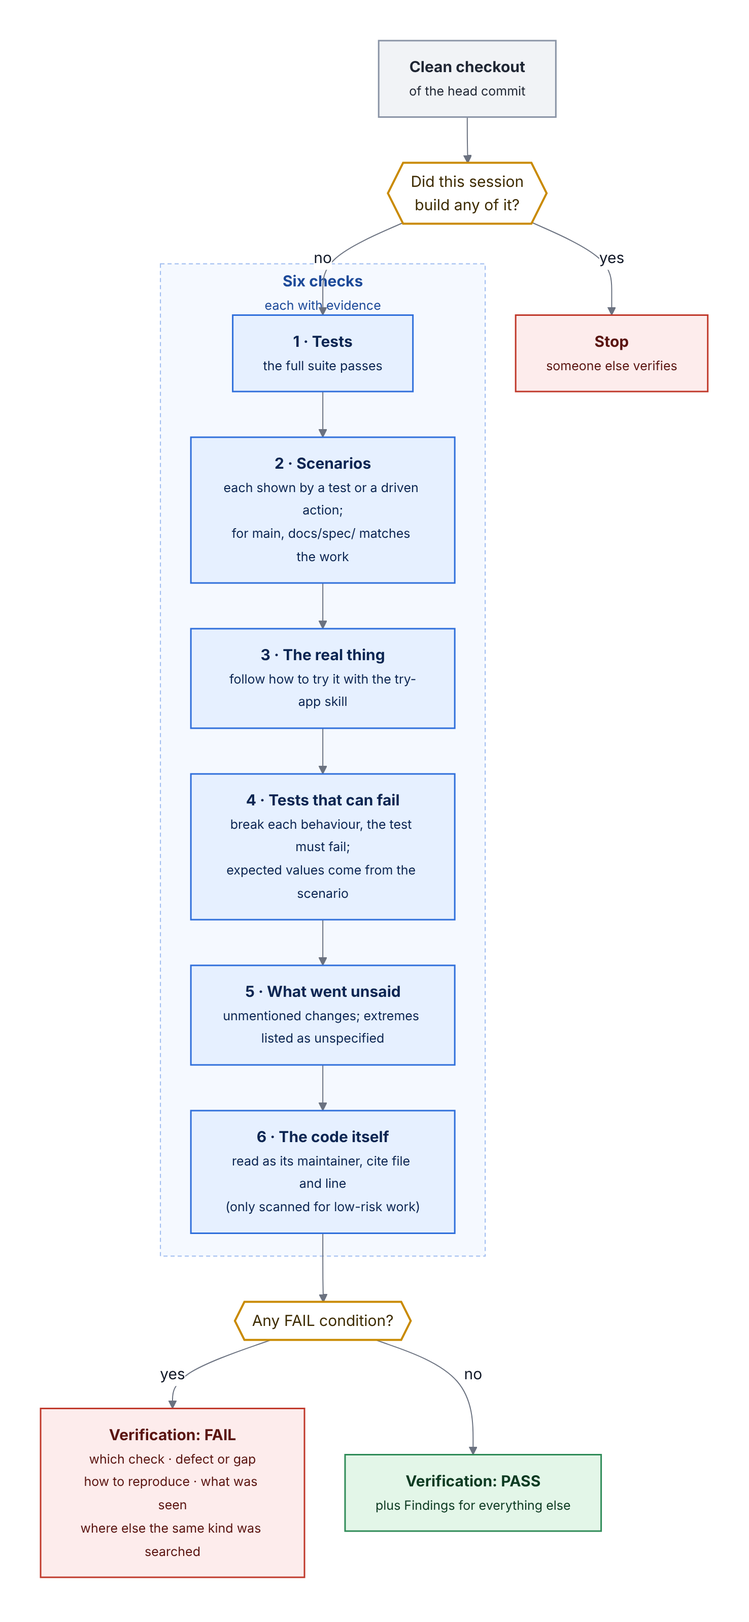
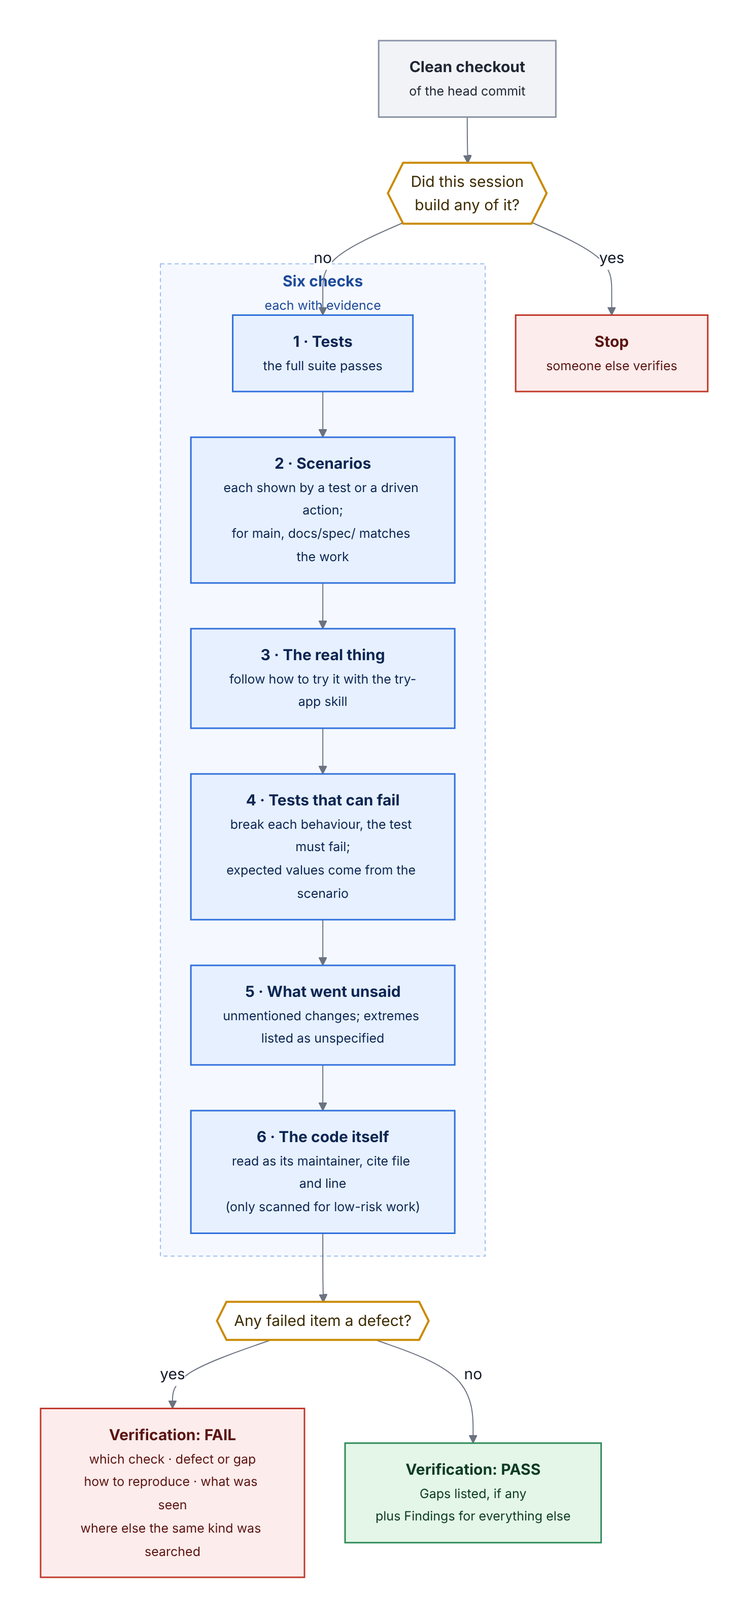
Release v0.5.2

Changed region(s): [[0.4675, 0.8679, 0.8103, 0.9609], [0.4675, 0.8059, 0.561, 0.8369], [0.3117, 0.8059, 0.4051, 0.8369]]

diff --git a/plugin/skills/shilaycow-setup/hooks/shilaycow-guard.py b/plugin/skills/shilaycow-setup/hooks/shilaycow-guard.py
@@ -19,7 +19,12 @@ in Claude Code before each Bash command and each GitHub tool call, and blocks:
   - a push to a shared branch (task/ or work/) that is not a compare-and-swap: it must carry
     --force-with-lease=<branch>:<the commit fetched> (empty when creating the branch), and a push to
     task/ must also be a fast-forward of that commit. Two sessions writing the same branch then cannot
-    lose each other's commits: the second push is refused, and the fix is to fetch, merge and push again.
+    lose each other's commits: the second push is refused, and the fix is to fetch, merge and push again;
+  - any other write to a shared branch (a GitHub tool's file write, branch creation or branch update, or
+    the API's contents and refs), since none of those can carry a lease: git push is the one way in.
+
+It reads the commands an agent writes, not every way a program could reach git: an alias, a script or
+xargs that runs git is not followed. It is a guard against mistakes, not against an agent set on evasion.
 
 Blocking exits 2 with the reason on stderr, which Claude Code shows the agent. It fails closed: input
 it cannot read is blocked too, since a lock that opens when confused is not a lock. A Bash command it
@@ -236,6 +241,12 @@ def check_api(words, protected):
         branch = re.search(r"branch=([^\s&]+)", joined)
         if branch is None or branch.group(1) in protected:
             return "writing a file to the default branch through the API (no branch, or the default branch)"
+        if branch.group(1).startswith(SHARED):
+            return f"{CAS} {branch.group(1)}: write it with a commit and git push, which the hook checks"
+    shared_ref = re.search(r"/git/refs/heads/((?:task|work)/[^?\s]+)", path) or re.search(
+        r"refs/heads/((?:task|work)/\S+)", joined) if re.search(r"/git/refs\b", path) else None
+    if shared_ref:
+        return f"{CAS} {shared_ref.group(1)}: move it with git push, which the hook checks"
     return None
 
 
@@ -287,9 +298,16 @@ def check_bash(command, protected, branch=...):
 def check_github_tool(tool, tool_input, protected):
     if re.search(r"merge_pull_request|enable_pr_auto_merge", tool):
         return OWNER_ONLY
+    branch = str(tool_input.get("branch", ""))
     if re.search(r"push_files|create_or_update_file|delete_file", tool):
-        if str(tool_input.get("branch", "")) in protected:
+        if branch in protected:
             return "writing to the default branch through the GitHub tools"
+        if branch.startswith(SHARED):
+            return f"{CAS} {branch}: write it with a commit and git push, which the hook checks"
+    if re.search(r"create_branch", tool) and branch.startswith(SHARED):
+        return f"{CAS} {branch}: create it with git push --force-with-lease={branch}: so only one session can"
+    if re.search(r"update_pull_request_branch", tool):
+        return f"{CAS} pull request branch: update it with git fetch, git merge and a leased git push"
     return None
 
 

diff --git a/ARCHITECTURE.md b/ARCHITECTURE.md
@@ -49,7 +49,7 @@ Every action with a large blast radius (irreversible, external, or costly) gets 
 | Action | Why it is dangerous | Guard | Strength |
 |---|---|---|---|
 | Changing `main` | the one thing you cannot throw away | Ruleset: pull request required, one approval, no force push, no deletion. The bot opens the pull request, and GitHub does not let an author approve their own. The hook also stops a push to `main` or a merge in a session acting as you | Server side, and a hook |
-| Merging a head nobody judged | a push after the verdict would reach you unchecked | the workflow `shilaycow-verdict` posts the status `shilaycow/verdict` on the head: green only when the newest verdict naming that exact commit is a PASS. The ruleset requires it from GitHub Actions, so a status the bot posts does not count, and the hook blocks posting one | Server side |
+| Merging a head nobody judged | a push after the verdict, or a branch updated from `main`, would reach you unchecked | the workflow `shilaycow-verdict` posts the status `shilaycow/verdict` on the head of every pull request into `main`: green only when the newest verdict by the bot naming that exact commit is a PASS, so a pull request another account opened is red too. The ruleset requires it from GitHub Actions, with branches up to date, so the commit merged is the commit judged; a status the bot posts does not count, and the hook blocks posting one | Server side |
 | Changing settings, rulesets or collaborators | would remove the guard above | the bot has the Write role, not Admin | Server side |
 | Changing CI workflows | could disable required checks | a workflow changed on a branch runs only once you merge it: the verdict check runs the copy on `main`, never a pull request's, and the change is in the diff you read | Server side |
 | Reading or leaking secrets | cannot be taken back | the cloud environment holds no secrets | Configuration |
@@ -130,7 +130,7 @@ Two exits apply from **any** unattended state, so they are not drawn as arrows:
 | Building | tickets are being built, proven and merged into the task branch | `work/<slug>/T-nn` pull requests |
 | Finishing | `docs/spec/` is brought up to date, the final report is written | `docs/spec/`, `reports/final.md` |
 | Judging | an independent session is checking the exact head commit | verdict comment on the pull request, and the status `shilaycow/verdict` on that commit |
-| Fixing | one fix round fixes the whole class a FAIL names; at most `fix_rounds` (default 2) while a defect remains; once only gaps remain, the pull request goes to you with them listed | a new head commit |
+| Fixing | one fix round fixes the whole class a FAIL names; at most `fix_rounds` (default 2) while a defect remains; once only gaps remain, the verdict is a PASS that lists them | a new head commit |
 | Wrapping | everything after the verdict goes on GitHub, so the judged commit stays the one you merge | comments on the pull request and tracking issue |
 | AwaitingOwner | a pull request you can read, try and merge | the pull request |
 
@@ -170,14 +170,14 @@ Task 0 has nothing to run, so its verification is different: instead of tests an
 
 `shilaycow-verify` runs in a session that built none of the work, on a clean checkout of one head commit. It treats the builder's claims as claims, not evidence.
 
-<p align="center"><img src="assets/diagrams/08-verification.png" width="738" alt="How a verdict is reached. On a clean checkout of the head commit, a session that built any of the work stops: someone else verifies. Otherwise it runs six checks, each with evidence: tests, scenarios, the real thing, tests that can fail, what went unsaid, and the code itself (only scanned for low-risk work). Any FAIL condition gives Verification: FAIL with which check, whether it is a defect or a gap, how to reproduce, what was seen and where else the same kind of mistake was searched for; otherwise Verification: PASS, with findings for everything else."></p>
+<p align="center"><img src="assets/diagrams/08-verification.png" width="738" alt="How a verdict is reached. On a clean checkout of the head commit, a session that built any of the work stops: someone else verifies. Otherwise it runs six checks, each with evidence: tests, scenarios, the real thing, tests that can fail, what went unsaid, and the code itself (only scanned for low-risk work). Any failed item that is a defect gives Verification: FAIL with which check, whether each item is a defect or a gap, how to reproduce, what was seen and where else the same kind of mistake was searched for; otherwise Verification: PASS, with the gaps listed, if any, and findings for everything else."></p>
 
 Rules that make the verdict trustworthy:
 
 - **Evidence is a command and its output, a screenshot, a file and line.** Never a sentence.
 - **One verdict per head commit.** A new commit needs a new verdict, and nothing is pushed after the verdict on the pull request you merge. This one is enforced: the required status `shilaycow/verdict` turns red on any head without a PASS, so GitHub refuses to merge it.
 - **A finding never turns a PASS into a FAIL, and is never left out to keep a PASS clean.**
-- **Every failed item is a defect or a gap.** A gap means users can already do what the scenario says and the verifier saw it work; only the proof or the documents around it fall short. At high risk every failed item is a defect. Gaps still fail the verdict, but they do not keep the run fixing: once only gaps remain, the pull request comes to you with them listed, each with an issue for a later task.
+- **Every failed item is a defect or a gap.** A gap means users can already do what the scenario says and the verifier saw it work; only the proof or the documents around it fall short. At high risk every failed item is a defect. Only a defect fails the verdict: when every failed item is a gap, the verdict is a PASS with a `### Gaps` list, `Finished:` says how many there are, and each gets an issue for a later task. A gap therefore never makes you override the required check to merge.
 - **A FAIL names the class, not one instance.** For each failed item the verifier says where else it searched for the same kind of mistake, so a fix round fixes all of it instead of the one place that was seen.
 - **A fix round is judged by what changed.** A new verifier is given the earlier verdict and checks the full suite, every check that failed, and the diff between the two heads; if that diff changes code the product runs, it does every check again. Merging `main` into the branch is judged the same way and is not counted as a fix round.
 - **No behaviour ships on a test that cannot fail.** This is the only rule in the method layer that is enforced.
@@ -223,7 +223,7 @@ The loop runs at the start of the next task, not at the end of this one, so that
   worktrees/<session>/  where builders work, a folder per session; ignored by git
 .claude/
   hooks/shilaycow-guard.py   the hook that stops a push to main, a merge, and any push to a task's branches that is not a compare-and-swap
-  settings.json         runs the hook before every command and GitHub tool call
+  settings.json         runs the hook before every Bash command and the GitHub tools that merge or write branches
   skills/try-<app>/     how to start and drive your app, made by shilaycow-try-it
 .github/workflows/
   shilaycow-verdict.yml posts the status the ruleset requires: PASS for this exact head, or red
@@ -297,7 +297,7 @@ Nothing important lives in a conversation. Conversations are compressed and sess
 
 Because of this, running `/shilaycow-autopilot` again on the same task resumes it, after the same gate: the Chief rebuilds its picture from the repository and GitHub every time.
 
-**Two runs at once lose nothing.** There is no lock that could be left held. Instead, every write that could lose work is one only a single writer can win: pushes to the task's branches are compare-and-swaps the hook enforces, two first starts race on the same push and the loser stops, a ticket is claimed by creating its branch, the tracking issue is the one the trail names, and GitHub allows one open pull request per branch. A second run only duplicates effort, such as a second verifier. `shilaycow-status` reads the same sources to tell you, without changing anything, what the task is waiting on and what to do next.
+**Two runs at once lose nothing.** There is no lock that could be left held. Instead, every write that could lose work is one only a single writer can win: pushes to the task's branches are compare-and-swaps the hook enforces, two first starts race on the same push and the loser stops, a ticket is claimed by creating its branch, the tracking issue is the one the trail names, and GitHub allows one open pull request per branch. A second run only duplicates effort, such as a second verifier. This holds for the writes the hook can read: git push is the one way to write a task's branches, and the hook refuses a GitHub tool or API call that would write them. It reads the commands an agent writes; a push hidden behind an alias or a script is not followed, since the hook guards against mistakes, not evasion. `shilaycow-status` reads the same sources to tell you, without changing anything, what the task is waiting on and what to do next.
 
 ---
 

diff --git a/plugin/skills/shilaycow-setup/SKILL.md b/plugin/skills/shilaycow-setup/SKILL.md
@@ -27,7 +27,7 @@ All of these hold, and you have shown the owner what you checked:
 3. The repository setting **Automatically delete head branches** is on, so a branch goes once its pull request is merged. Where your GitHub tools do not show the setting, the owner confirms it.
 4. `.shilaycow/config.yml` exists with `owner`, `bot`, `mode: auto`, `test_command` (empty while the project has no tests), `fix_rounds`.
 5. `CLAUDE.md`, which sessions read when they start, has the section in `claude-section.md` beside this file, copied as it is: the owner's standing permission to push branches, and where each piece of state lives. It names places, never one task's details, so it stays the same from task to task. An existing section is updated to match. Where the project keeps its rules in `AGENTS.md`, the section goes there and `CLAUDE.md` imports it with a line `@AGENTS.md`; `.gitignore` ignores `.shilaycow/worktrees/`, where builders work, and `__pycache__/`, which running the hook or a test leaves behind. Add the setup files to the commit by path, never all at once.
-6. `.github/workflows/shilaycow-verdict.yml` is a copy of `workflows/shilaycow-verdict.yml` beside this file. It posts the status `shilaycow/verdict` on the head of each pull request the bot opens into the default branch: green only when the newest verdict naming that exact commit is a PASS, so a push after the verdict turns it red again. Once it is on the default branch, the ruleset requires that status from GitHub Actions (`by-hand.md` step 2), and GitHub refuses to merge a head nobody judged. `.gitattributes` has the line `docs/tasks/*/trail.tsv merge=union`, so trail rows that two sessions append at once both survive a merge instead of conflicting. `.claude/hooks/shilaycow-guard.py` is a copy of `hooks/shilaycow-guard.py` beside this file, and `.claude/settings.json` runs it as the `PreToolUse` hooks in `hooks/settings.json`. It blocks a push to the default branch and a merge, whoever the session acts as: the second lock, for a session the ruleset would let through. Where `.claude/settings.json` exists, add the two entries to its `PreToolUse` list and keep everything else.
+6. `.github/workflows/shilaycow-verdict.yml` is a copy of `workflows/shilaycow-verdict.yml` beside this file. It posts the status `shilaycow/verdict` on the head of each pull request into the default branch, whoever opened it: green only when the newest verdict naming that exact commit is a PASS, so a push after the verdict turns it red again. Once it is on the default branch, the ruleset requires that status from GitHub Actions, with branches up to date (`by-hand.md` step 2), and GitHub refuses to merge a head nobody judged. `.gitattributes` has the line `docs/tasks/*/trail.tsv merge=union`, so trail rows that two sessions append at once both survive a merge instead of conflicting. `.claude/hooks/shilaycow-guard.py` is a copy of `hooks/shilaycow-guard.py` beside this file, and `.claude/settings.json` runs it as the `PreToolUse` hooks in `hooks/settings.json`. It blocks a push to the default branch and a merge, whoever the session acts as: the second lock, for a session the ruleset would let through. Where `.claude/settings.json` exists, add the two entries to its `PreToolUse` list and keep everything else.
 7. Items 4 to 6 are on a branch with a pull request open, not pushed to `main`; the labels `needs-owner` and `later` exist on the repository. Read each with your GitHub tools; where they cannot create a label, the owner creates it by hand (`by-hand.md`).
 8. The owner has a cloud environment whose setup script is `install-skills.sh` beside this file, and knows to start this project's sessions in it. A repository's own plugin settings are not loaded in cloud sessions.
 
@@ -42,7 +42,7 @@ Never test the boundary by trying to push to `main`.
 
 **As the owner.** Do items 1 to 3 with `gh api`, sending `ruleset.json` as the body, then items 4 to 7, the labels included. The owner still does what only a person can: accepting the invitation as the bot, and connecting GitHub on claude.ai to the bot account with the Claude GitHub App installed on this repository.
 
-Either way: say why at each step, and never overwrite a file that exists; add a section or report the difference. Once the project has a workflow that runs its test command on pull requests, the ruleset also requires that check to pass (`required_status_checks`, `by-hand.md` step 2), so a red suite cannot be merged whatever a verdict says; until then, passing tests rest on the verifier's run, and the setup check says so. Propose that workflow; the owner adds it, since it lives under `.github/`.
+Either way: say why at each step. Two files are the harness's own: `.claude/hooks/shilaycow-guard.py` and `.github/workflows/shilaycow-verdict.yml`. When either differs from this version's copy, replace it in the setup pull request, so an upgrade reaches them. Never overwrite any other file that exists; add a section or report the difference. Once the project has a workflow that runs its test command on pull requests, the ruleset also requires that check to pass (`required_status_checks`, `by-hand.md` step 2), so a red suite cannot be merged whatever a verdict says; until then, passing tests rest on the verifier's run, and the setup check says so. Propose that workflow; the owner adds it, since it lives under `.github/`.
 
 To check an existing setup, compare each item with what GitHub reports and list actual against expected. Change nothing. A config written by version 0.3 has `merge_unit` in place of `mode`, and often a `budget`: that is the upgrade the CHANGELOG describes, so in the setup pull request put `mode: auto` in place of `merge_unit` and remove `budget`.
 

diff --git a/plugin/skills/shilaycow-verify/references/verdict.md b/plugin/skills/shilaycow-verify/references/verdict.md
@@ -7,7 +7,7 @@ Read this when the checks are done, before you write the comment.
 It is a **FAIL** when any of these is true:
 
 - the suite fails, or a scenario this work serves is not shown;
-- for a pull request into `main`, the spec contradicts what the work does, or lacks a scenario the work added;
+- for a pull request into `main`, the spec contradicts what the work does, or lacks a scenario the work added (for a documents-only task, its scenarios belong under Not yet built: `references/checks.md`);
 - the "how to try it" steps do not work as written;
 - a test still passes with its behaviour broken, or takes its expected value from the code it tests;
 - a behaviour is reported as proven with neither a test nor a recorded driven check;
@@ -20,7 +20,7 @@ It is a **FAIL** when any of these is true:
 
 ## Defect or gap
 
-Mark each failed item **defect** or **gap**. Its risk is that of the ticket it belongs to. It is a gap only when users can already do what its scenario says, you saw it work, and what falls short is the proof or the documents around it: a test missing or unable to fail at low or medium risk, a report or repeated figure out of step, a spec that leaves something out. A spec whose Scenarios say something the work makes false is a defect: the next task starts from it. Anything else is a defect, and at high risk every failed item is a defect. Gaps still make the verdict a FAIL; they tell the Chief when to stop fixing.
+Mark each failed item **defect** or **gap**. Its risk is that of the ticket it belongs to. It is a gap only when users can already do what its scenario says, you saw it work, and what falls short is the proof or the documents around it: a test missing or unable to fail at low or medium risk, a report or repeated figure out of step, a spec that leaves something out. A spec whose Scenarios say something the work makes false is a defect: the next task starts from it. Anything else is a defect, and at high risk every failed item is a defect. The verdict is a **FAIL** only when at least one failed item is a defect. When every failed item is a gap, the verdict is a **PASS** and the comment lists them under a `### Gaps` heading: a gap is not fixed in this run, and a FAIL would only make the owner override the required check to merge.
 
 For each failed item, say which check failed (and which scenario, when one is involved), how to reproduce it and what you saw, so the builder need not guess, and where else you searched for the same kind of mistake and what you found there.
 
@@ -30,4 +30,4 @@ Otherwise it is a **PASS**. Anything else you found (a defect outside the scenar
 
 ## The comment
 
-One comment, in this order: the heading `## Verification: PASS` or `## Verification: FAIL`; a line `Session: <your session id>`; the full head commit; in a fix round, a link to the verdict before this one; your paraphrase; the checks with their evidence, failed items marked defect or gap; then `### Findings`. With no pull request yet, post it where you were told to, which is normally the tracking issue. Never edit it afterwards; a new head needs a new verdict.
+One comment, in this order: the heading `## Verification: PASS` or `## Verification: FAIL`; a line `Session: <your session id>`; the full head commit; in a fix round, a link to the verdict before this one; your paraphrase; the checks with their evidence, failed items marked defect or gap; then `### Gaps`, when any item is a gap; then `### Findings`. With no pull request yet, post it where you were told to, which is normally the tracking issue. Never edit it afterwards; a new head needs a new verdict.

diff --git a/CHANGELOG.md b/CHANGELOG.md
@@ -1,11 +1,25 @@
 # Changelog
 
+## 0.5.2
+
+Closes the gaps an audit found between what 0.5 promised and what it enforced.
+
+- **Every pull request into the default branch needs a verdict.** One opened by another account is red too, so a session connected as the wrong account is caught by GitHub, not only by the verifier. Merge your own pull requests as before, by bypassing the ruleset as admin.
+- **A gap no longer blocks the merge.** When every failed item is a gap, the verdict is a PASS with a `### Gaps` list, and `Finished:` says how many there are. Before, a gap-only FAIL turned the required check red and left you only the admin bypass. Only a defect fails a verdict now.
+- **The commit you merge is the commit that was judged.** `by-hand.md` step 2 now also has you tick **Require branches to be up to date before merging**: updating a branch from the default branch makes a new head, which is red until it is judged again.
+- **git push is the only way to write a task's branches.** The hook now refuses a GitHub tool or API call that writes, creates or updates a `task/` or `work/` branch, since none of those can carry the compare-and-swap that keeps two sessions from losing each other's work.
+- **Upgrades reach the hook and the workflow.** Setup replaces its own two files when they differ from the version it ships, in its pull request; it still never overwrites any other file.
+- A documents-only task no longer fails verification for having no built scenarios, and `/shilaycow-chief` opens nothing on GitHub when the session is not the bot, so a wrong account cannot leave a tracking issue every verdict would fail.
+- Builders post their `Ready.` comment with the GitHub tools or `--body-file`, which the hook never mistakes for a push.
+
+To upgrade, run `/shilaycow-setup` again: its pull request replaces the hook and the workflow. Then, in the ruleset, edit the `shilaycow/verdict` check and tick **Require branches to be up to date before merging**. Update the `--branch` tag in your cloud environment's setup script.
+
 ## 0.5.1
 
 Fixes from running 0.5.0 end to end on a real repository.
 
 - **Setup no longer commits Python's cache.** Its `.gitignore` also ignores `__pycache__/`, and it adds its files to the commit by path.
-- **Making the verdict check required works the first time.** GitHub lists a check only after it has run, so `by-hand.md` now has you open a one-line pull request first, wait for the red `shilaycow/verdict`, close it, and then add the check.
+- **Making the verdict check required works the first time.** GitHub lists a check only after it has run, so `by-hand.md` now has you ask a session to open a one-line pull request first, wait for the red `shilaycow/verdict`, close it, and then add the check.
 - **You can see that the verdict check ran again.** Its description now ends with why it was posted, such as "(checked after a comment)": a recheck after a comment runs against the default branch and does not appear among the pull request's checks, and with the same verdict the text used to look unchanged.
 - **The hook no longer blocks harmless commands it cannot parse.** A command with, say, an apostrophe inside a heredoc is blocked only if it could push, merge or call an API.
 

diff --git a/plugin/skills/shilaycow-autopilot/references/verdicts.md b/plugin/skills/shilaycow-autopilot/references/verdicts.md
@@ -8,7 +8,7 @@ Rely on a verdict only when the commit it names is the branch's head as it is no
 
 ## Findings and gaps
 
-On the pull request, one comment saying what becomes of each finding and each gap: left for the owner, or a `later` issue (labelled `later`, saying whether it is a gap or a finding, its area, and how to reproduce it). Gaps and findings are not fixed in this run: patched one at a time they scatter small fixes across the repository, while gathered they show their shared cause to a later task. Defects do not go in that comment: they go to a fix round.
+A verdict whose only failed items are gaps is a PASS with a `### Gaps` list. On the pull request, one comment saying what becomes of each finding and each gap: left for the owner, or a `later` issue (labelled `later`, saying whether it is a gap or a finding, its area, and how to reproduce it). Gaps and findings are not fixed in this run: patched one at a time they scatter small fixes across the repository, while gathered they show their shared cause to a later task. Defects do not go in that comment: they go to a fix round.
 
 ## A fix round
 
@@ -21,4 +21,4 @@ Then give a new verifier the new head and the verdict before it. A fix keeps its
 
 ## The limit
 
-`fix_rounds` (in the config; 2 if unset) limits each ticket judged on its own and, separately, the pull request into `main`: the first verdict is not a round, so with 2 there are at most three verdicts. A fix ticket made for the pull request into `main` belongs to that round: its own verdicts do not start a count of their own, and the round ends with the next verdict on the pull request. Keep the count for each on the goal list. A merge of `main` is not a round. When a defect is still there after that many rounds, stop: open a `needs-owner` issue with the failing item and your options. When only gaps are left on the pull request into `main`, stop: hand it to the owner with the gaps listed.
+`fix_rounds` (in the config; 2 if unset) limits each ticket judged on its own and, separately, the pull request into `main`: the first verdict is not a round, so with 2 there are at most three verdicts. A fix ticket made for the pull request into `main` belongs to that round: its own verdicts do not start a count of their own, and the round ends with the next verdict on the pull request. Keep the count for each on the goal list. A merge of `main` is not a round. When a defect is still there after that many rounds, stop: open a `needs-owner` issue with the failing item and your options. Gaps never start a round: once no defect is left, the verdict is a PASS and the gaps go to the owner with it.

diff --git a/plugin/skills/shilaycow-setup/by-hand.md b/plugin/skills/shilaycow-setup/by-hand.md
@@ -30,7 +30,7 @@ Leave everything else off, and **Create**.
 
 Why: after this, the only way into the default branch is a pull request. The bot opens it and cannot approve its own; the owner merges it. The owner can still merge their own pull requests without a second person.
 
-**Once the setup pull request is merged**, so the verdict workflow is on the default branch: GitHub lists a check here only after it has run once, so first have a session open a pull request into the default branch that changes one line, wait until it shows a red `shilaycow/verdict`, and close it without merging. Then edit the same ruleset, tick **Require status checks to pass**, add the check `shilaycow/verdict`, and set its source to **GitHub Actions**, so only the workflow can turn it green, not a status posted by an account. The setup pull request itself has no verdict: merge it before this step. From then on a task's pull request can be merged only at a head with a PASS; you can still bypass the rule as admin, deliberately, for a pull request you made yourself.
+**Once the setup pull request is merged**, so the verdict workflow is on the default branch: GitHub lists a check here only after it has run once, so first have a session open a pull request into the default branch that changes one line, wait until it shows a red `shilaycow/verdict`, and close it without merging. Then edit the same ruleset, tick **Require status checks to pass**, add the check `shilaycow/verdict`, set its source to **GitHub Actions**, so only the workflow can turn it green, not a status posted by an account, and tick **Require branches to be up to date before merging**, so the commit you merge is the commit that was judged: updating a branch from the default branch makes a new head, whose status is red until it is judged again. The setup pull request itself has no verdict: merge it before this step. From then on a task's pull request can be merged only at a head with a PASS; you can still bypass the rule as admin, deliberately, for a pull request you made yourself.
 
 **Later, once the project runs its tests in a workflow on pull requests:** edit the same ruleset, tick **Require status checks to pass**, and add that workflow's check. From then on a pull request whose tests fail cannot be merged, whatever a verdict says. Run `/shilaycow-setup` again afterwards; it reads the rules in force and confirms the check.
 

diff --git a/plugin/skills/shilaycow-autopilot/references/finishing.md b/plugin/skills/shilaycow-autopilot/references/finishing.md
@@ -22,6 +22,6 @@ The last verdict is a PASS, or the one after which you stopped. Then, on the tra
 
 - a `Retro:` comment with what `shilaycow-retro` found, unless the issue already has one from this run (a resume after a crash must not post a second);
 - the goal list in its final state (`references/starting.md`);
-- `Finished:`, which ends like the pull request, with the roadmap's next task and `/shilaycow-chief` or that the roadmap is done, and tells the owner two things: anything they find wrong after merging is worth one comment on this issue, closed or not, since it is how the next task learns what verification missed; and if they update the branch from `main` before merging, the new head was not judged, so they run `/shilaycow-autopilot` again for its verdict.
+- `Finished:`, whose first line says how many gaps the PASS lists (or none), and which ends like the pull request, with the roadmap's next task and `/shilaycow-chief` or that the roadmap is done, and tells the owner two things: anything they find wrong after merging is worth one comment on this issue, closed or not, since it is how the next task learns what verification missed; and if they update the branch from `main` before merging, the new head was not judged, so they run `/shilaycow-autopilot` again for its verdict.
 
 The next task's `/shilaycow-chief` folds the Retro into the pitfalls file and proposes the `shilaycow-correct` changes it makes due. Push nothing more to the task branch: the commit the owner merges is the commit that was judged. Apart from a fix round's ticket, which lands with its trail rows as usual, decisions you make after the pull request into `main` is sent for verification (restarting a verifier, for instance) go in a comment on the tracking issue starting `Decision:`, not in the trail, so recording them never moves the judged head; the report's next version folds them in. Then cancel your timed checks. Delete the `spike/` branches this task opened; their decisions are in the trail and the files it cites are already copied. Delete the `work/` branches of merged tickets too: GitHub's automatic deletion may not apply to a pull request merged by a push. Where your tools cannot delete a branch (a cloud session's git access may refuse it), list those branches in `Finished:` for the owner to delete.

diff --git a/plugin/skills/shilaycow-chief/SKILL.md b/plugin/skills/shilaycow-chief/SKILL.md
@@ -25,7 +25,7 @@ Read `mode` in the config.
 
 Typed with no request, the command asks what comes next: say where the roadmap stands (done, next, remaining) and propose its next task; with no roadmap, ask what the user wants built. A task that is still open comes first, as below.
 
-In auto mode, commit as the bot: before your first commit, set git's `user.name` to the bot's login and `user.email` to `<id>+<login>@users.noreply.github.com`, from `get_me`; if `get_me` names someone other than the config's `bot`, say so before writing anything. Create `task/<slug>` when the task begins, with `docs/tasks/<slug>/trail.tsv` and its header row (`shilaycow-trail`), and keep everything about the task in `docs/tasks/<slug>/` on that branch, the brief included, from the first file you write; record each decision in the trail as you make it, the ones before approval included, so nothing depends on this conversation surviving. Every task becomes one pull request into `main` from that branch; work too large for one pull request a person can review closely becomes a chain of tasks (`shilaycow-sharpen`).
+In auto mode, commit as the bot: before your first commit, set git's `user.name` to the bot's login and `user.email` to `<id>+<login>@users.noreply.github.com`, from `get_me`; if `get_me` names someone other than the config's `bot`, say so before writing anything, and open or comment on nothing on GitHub: the verifier fails a task whose tracking issue another account opened, and an issue's author cannot change. Ask the user to go on in a session that acts as the bot. Create `task/<slug>` when the task begins, with `docs/tasks/<slug>/trail.tsv` and its header row (`shilaycow-trail`), and keep everything about the task in `docs/tasks/<slug>/` on that branch, the brief included, from the first file you write; record each decision in the trail as you make it, the ones before approval included, so nothing depends on this conversation surviving. Every task becomes one pull request into `main` from that branch; work too large for one pull request a person can review closely becomes a chain of tasks (`shilaycow-sharpen`).
 
 Before the brief, bring in what earlier tasks left, so the user weighs it while approving:
 

diff --git a/README.md b/README.md
@@ -53,14 +53,14 @@ Paste this into the environment's **Setup script**. Its network must reach `gith
 
 ```bash
 rm -rf /tmp/shilaycow-src
-git -c advice.detachedHead=false clone -q --depth 1 --branch v0.5.1 https://github.com/pitaya943/shilaycow.git /tmp/shilaycow-src \
+git -c advice.detachedHead=false clone -q --depth 1 --branch v0.5.2 https://github.com/pitaya943/shilaycow.git /tmp/shilaycow-src \
   && mkdir -p "${HOME:-/root}/.claude/skills" \
   && rm -rf "${HOME:-/root}"/.claude/skills/shilaycow-* \
   && cp -r /tmp/shilaycow-src/plugin/skills/. "${HOME:-/root}/.claude/skills/" \
   || echo "shilaycow skills were not installed" >&2
 ```
 
-Every session started in that environment has the skills as `/shilaycow-chief`, `/shilaycow-sharpen`, and so on. Where this README names a command, a plugin install spells it `/shilaycow:shilaycow-…`. A plugin installed on your own computer is not available in cloud sessions, so use the script there. The script installs version 0.5.1 and removes the skills an earlier version left; to move to a later version, change the `--branch` tag. It does not stop the session from starting if the clone fails, so a session without the skills still opens and says the command is unknown.
+Every session started in that environment has the skills as `/shilaycow-chief`, `/shilaycow-sharpen`, and so on. Where this README names a command, a plugin install spells it `/shilaycow:shilaycow-…`. A plugin installed on your own computer is not available in cloud sessions, so use the script there. The script installs version 0.5.2 and removes the skills an earlier version left; to move to a later version, change the `--branch` tag. It does not stop the session from starting if the clone fails, so a session without the skills still opens and says the command is unknown.
 
 **Upgrading from 0.3.x:** version 0.4 is not compatible. Follow the steps in [CHANGELOG.md](CHANGELOG.md) before your next task.
 

diff --git a/plugin/skills/shilaycow-autopilot/roles/builder.md b/plugin/skills/shilaycow-autopilot/roles/builder.md
@@ -21,7 +21,7 @@ If any of these is missing, ask for it before starting. Check out your branch fi
 3. Build each behaviour and prove it the way the `shilaycow-prove` skill says. Every test you add must have been seen to fail. Do not run mutation sweeps: breaking every behaviour is the verifier's job. Commit only short evidence (the command, the commit, the result); put long output in a collapsed block of your `Ready.` comment.
 4. Note each decision another person might have made differently, as rows in the form the `shilaycow-trail` skill describes. Do not edit `trail.tsv` yourself.
 5. When the full suite passes, set the ticket's `Status:` to `done` if the ticket is its own file (a row of a shared table is left to autopilot), push your branch as a compare-and-swap (`git push --force-with-lease=<your branch>:<its commit on origin> origin <your branch>`, with that commit written out: the project's hook refuses any other push to it), and open a pull request into your base branch.
-6. Post one comment on the pull request that starts `Ready.` and contains: the `Session:` line you were given, for each scenario how it is proven (the test and how it was seen to fail, or the driven check and its record), how to try the change, and your trail rows in a fenced block.
+6. Post one comment on the pull request, with your GitHub tools or `gh pr comment --body-file` (an inline body that mentions a push trips the project's hook), that starts `Ready.` and contains: the `Session:` line you were given, for each scenario how it is proven (the test and how it was seen to fail, or the driven check and its record), how to try the change, and your trail rows in a fenced block.
 
 In a fix round, fix the whole class the verdict names, not only the place it points to, and post a new `Ready.` comment.
 

diff --git a/plugin/skills/shilaycow-verify/references/checks.md b/plugin/skills/shilaycow-verify/references/checks.md
@@ -27,4 +27,4 @@ What each risk level means is in `shilaycow-blast-radius`: load it with your Ski
 
 ## A documents-only task
 
-A task whose deliverable is documents only (a specification, a design, a roadmap) has nothing to run: say that checks 1, 3 and 4 do not apply. Check instead, with a file and line for each, that its scenarios are under Not yet built and none was added under Scenarios, that each matches the brief, that none contradicts a scenario already under Scenarios, that the design gives every scenario a place, and that the roadmap gives every Not yet built scenario exactly one task.
+A task whose deliverable is documents only (a specification, a design, a roadmap) has nothing to run: say that checks 1 to 4 do not apply, check 2 included, since its scenarios are not built yet. Check instead, with a file and line for each, that its scenarios are under Not yet built and none was added under Scenarios, that each matches the brief, that none contradicts a scenario already under Scenarios, that the design gives every scenario a place, and that the roadmap gives every Not yet built scenario exactly one task.
